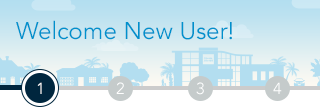
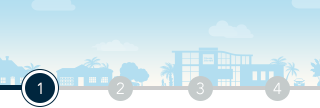
Added Registration images, uploaded legal content

Changed region(s): [[0.0312, 0.1944, 0.75, 0.3889]]

diff --git a/FloridaBlue/App/Containers/Registration/Containers/Confirmation/ConfirmationStyle.js b/FloridaBlue/App/Containers/Registration/Containers/Confirmation/ConfirmationStyle.js
@@ -5,8 +5,8 @@ export default StyleSheet.create({
   headerContainer: {
     width: Metrics.screenWidth,
     resizeMode: 'stretch',
-    alignItems: 'center',
-    justifyContent: 'center',
+  //  alignItems: 'center',
+    //justifyContent: 'center',
     height: (Metrics.screenHeight - (Metrics.screenHeight * 0.59)) / 2
   },
   container: {
@@ -18,6 +18,16 @@ export default StyleSheet.create({
     fontSize: Fonts.size.h6 * Metrics.screenWidth * 0.003,
     marginTop: Metrics.doubleBaseMargin,
     marginLeft: Metrics.doubleBaseMargin
+  },
+    headerTextStyle: {
+    color: Colors.flBlue.ocean,
+    backgroundColor: Colors.transparent,
+    fontSize: Fonts.size.h3 * Metrics.screenWidth * 0.0031,
+    marginTop: 20,
+    marginLeft: Metrics.mediumMargin,
+    // marginTop: Metrics.baseMargin * Metrics.screenHeight * 0.0023,
+    fontFamily: Fonts.type.headerFont,
+    fontWeight: '400'
 
   },
   subheading: {

diff --git a/FloridaBlue/App/Containers/Registration/Containers/Screen_1/Screen_1Style.js b/FloridaBlue/App/Containers/Registration/Containers/Screen_1/Screen_1Style.js
@@ -20,6 +20,17 @@ export default StyleSheet.create({
     fontFamily: Fonts.type.base,
     fontSize: Fonts.size.h4 * Metrics.screenWidth * 0.0025
   },
+    headerTextStyle: {
+    color: Colors.flBlue.ocean,
+    backgroundColor: Colors.transparent,
+    fontSize: Fonts.size.h3 * Metrics.screenWidth * 0.0030,
+    marginTop: 20,
+    marginLeft: Metrics.mediumMargin,
+    // marginTop: Metrics.baseMargin * Metrics.screenHeight * 0.0023,
+    fontFamily: Fonts.type.headerFont,
+    fontWeight: '400'
+
+  },
   messageView: {
     padding: Metrics.baseMargin,
     marginHorizontal: Metrics.doubleBaseMargin,

diff --git a/FloridaBlue/App/Containers/Registration/Containers/Screen_1/Screen_1.js b/FloridaBlue/App/Containers/Registration/Containers/Screen_1/Screen_1.js
@@ -112,7 +112,10 @@ class Screen_1 extends React.Component {
     return (
       <View style={styles.container}>
         <KeyboardAwareScrollView keyboardShouldPersistTaps>
-          <Image source={Images.registrationStep1Hdr} style={styles.headerImage} />
+          <Image source={Images.registrationStep1Hdr} style={styles.headerImage} >
+            <Text style={styles.headerTextStyle}>Let's Get Started!</Text>
+          </Image>
+
           <View style={styles.row}>
             <Text style={styles.heading}>{I18n.t('personalInformation')}</Text>
           </View>

diff --git a/FloridaBlue/App/Containers/Registration/Containers/Confirmation/Confirmation.js b/FloridaBlue/App/Containers/Registration/Containers/Confirmation/Confirmation.js
@@ -56,9 +56,12 @@ class Confirmation extends Component {
   render () {
     return (
       <ScrollView style={styles.container}>
-        <Image style={styles.headerContainer} source={Images.regCompletion} />
+        <Image style={styles.headerContainer} source={Images.regCompletion} >
+          <Text style={styles.headerTextStyle}>Thank You!</Text>
+          </Image>
+
+
         <View >
-          <Text style={styles.header}>Thank You!</Text>
           <Text style={styles.subheading}>You're All Set</Text>
         </View>
         <View style={styles.userStyle}>

diff --git a/FloridaBlue/App/Containers/MemberDashBoard/Containers/DoctorService/DoctorServices.js b/FloridaBlue/App/Containers/MemberDashBoard/Containers/DoctorService/DoctorServices.js
@@ -127,7 +127,7 @@ class DoctorServices extends Component {
                      }}>
 
                        <View style={{ flex:0.8,marginLeft: Metrics.mediumMargin }}>
-                         <Text style={styles.subheading} >Info</Text>
+                         <Text style={styles.subheading} >Benefit Information</Text>
                        </View>
                        <View style={{flex:0.4}}>
                        {
